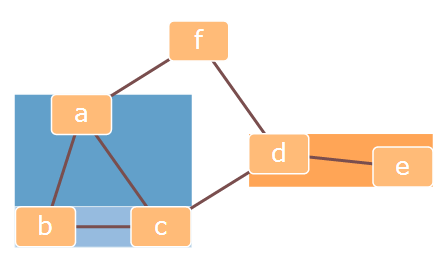
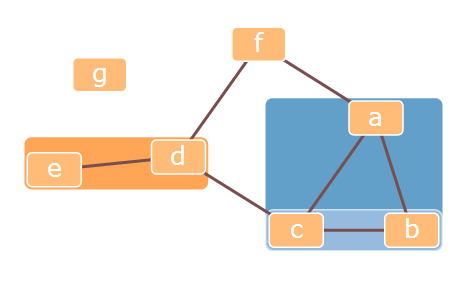
make groups example pretty

diff --git a/WebCola/smallgroups.html b/WebCola/smallgroups.html
@@ -70,6 +70,7 @@
         var group = svg.selectAll(".group")
             .data(graph.groups)
           .enter().append("rect")
+            .attr("rx", 8).attr("ry", 8)
             .attr("class", "group")
             .style("fill", function (d, i) { return color(i); });
 
@@ -78,12 +79,13 @@
           .enter().append("line")
             .attr("class", "link");
 
+        var pad = 3;
         var node = svg.selectAll(".node")
             .data(graph.nodes)
           .enter().append("rect")
             .attr("class", "node")
-            .attr("width", function (d) { return d.width; })
-            .attr("height", function (d) { return d.height; })
+            .attr("width", function (d) { return d.width - 2 * pad; })
+            .attr("height", function (d) { return d.height - 2 * pad; })
             .attr("rx", 5).attr("ry", 5)
             .style("fill", function (d) { return color(graph.groups.length); })
             .call(cola.drag);
@@ -104,8 +106,8 @@
                 .attr("x2", function (d) { return d.target.x; })
                 .attr("y2", function (d) { return d.target.y; });
 
-            node.attr("x", function (d) { return d.x - d.width / 2; })
-                .attr("y", function (d) { return d.y - d.height / 2; });
+            node.attr("x", function (d) { return d.x - d.width / 2 + pad; })
+                .attr("y", function (d) { return d.y - d.height / 2 + pad; });
             
             group.attr("x", function (d) { return d.bounds.x; })
                  .attr("y", function (d) { return d.bounds.y; })
